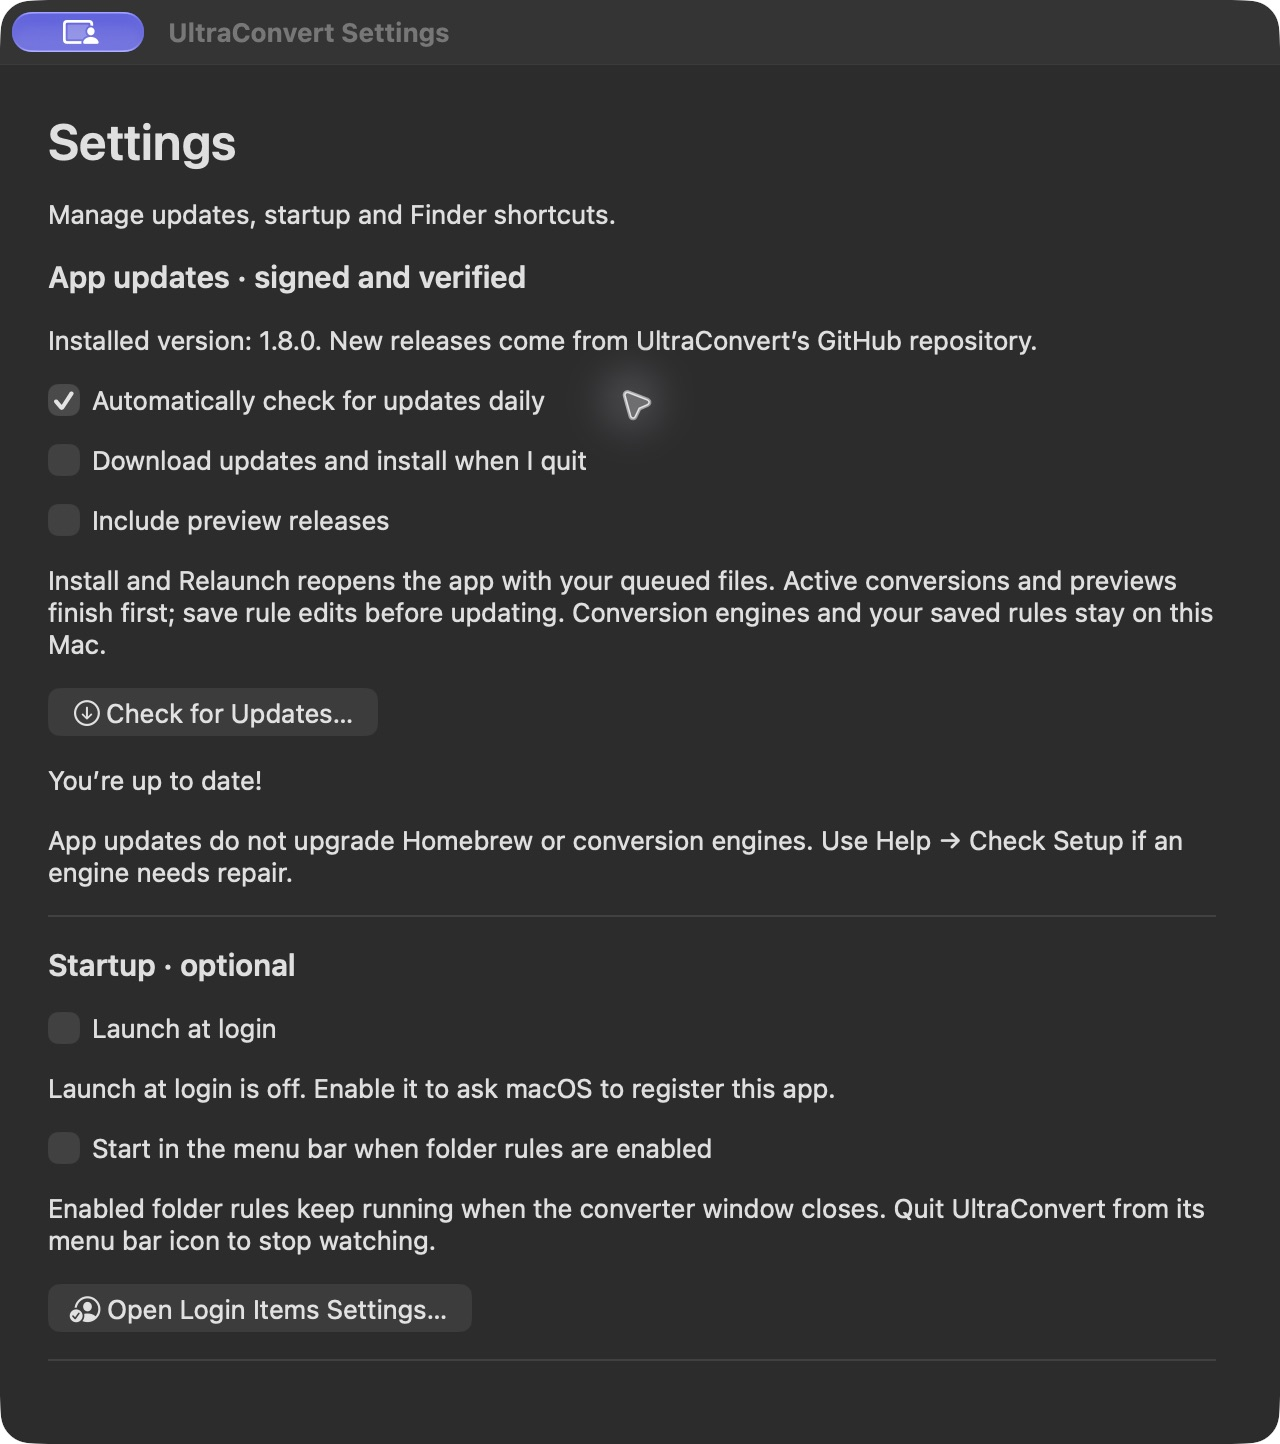
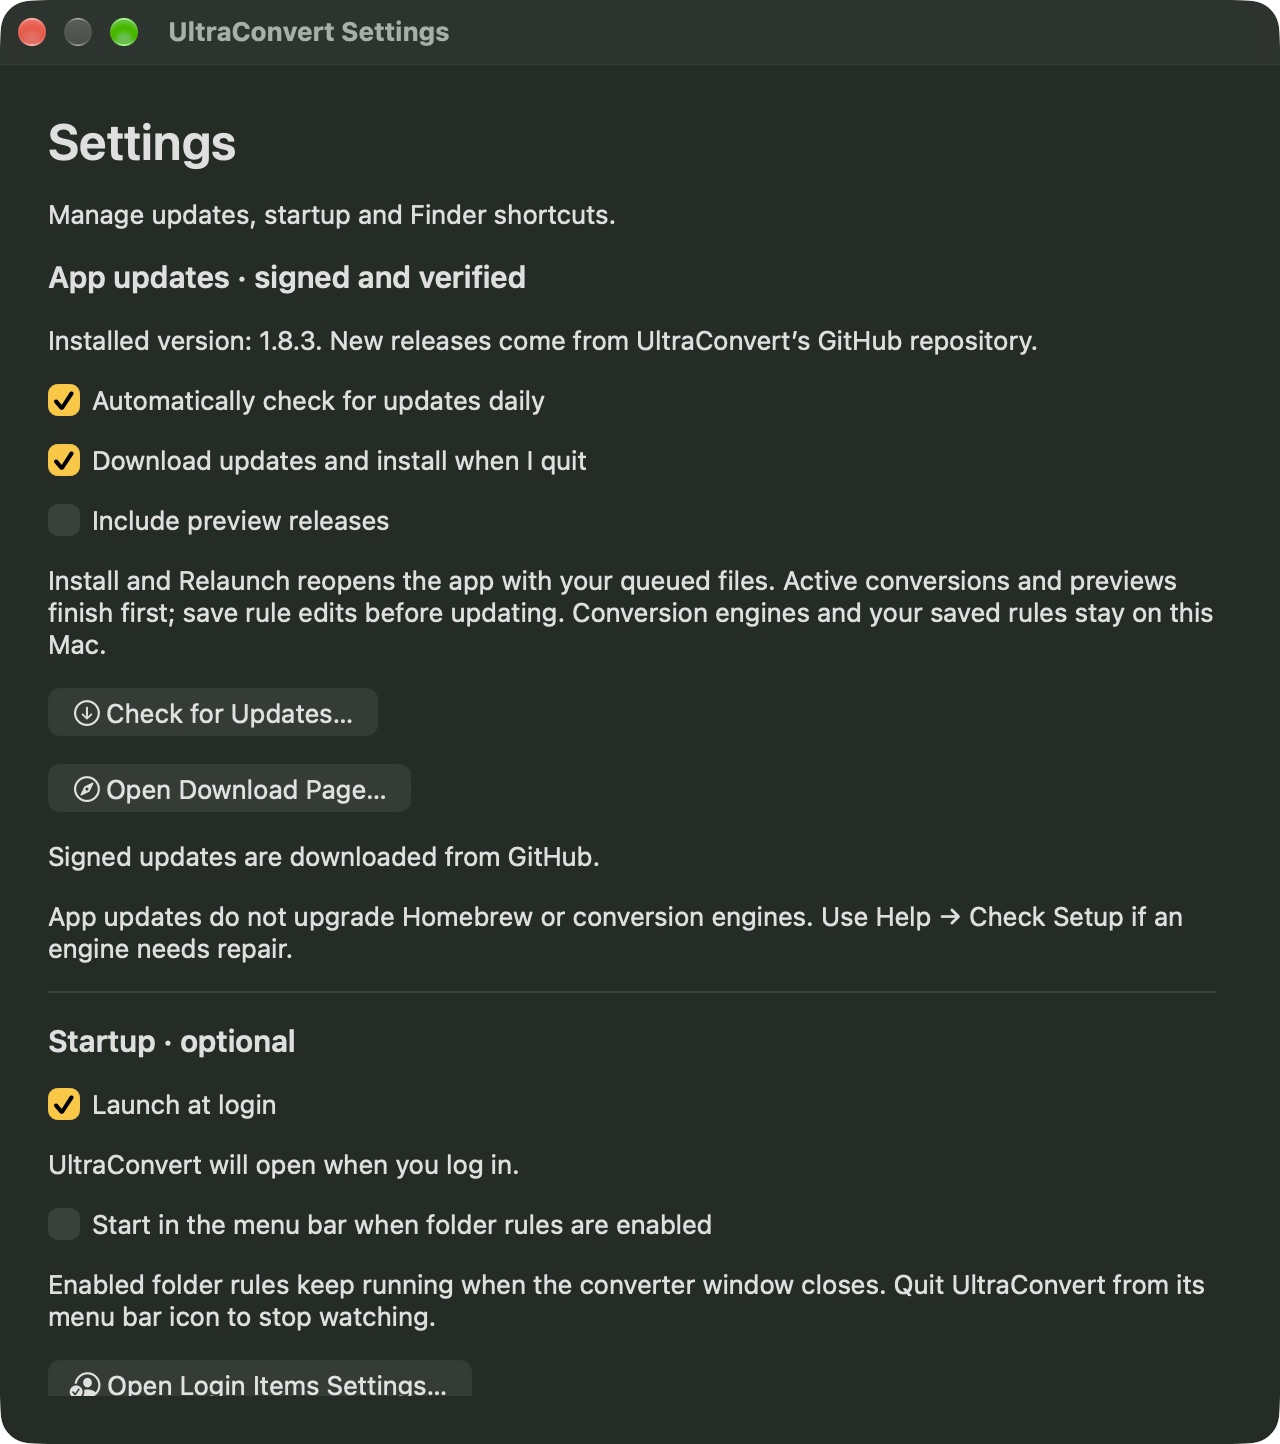
Document real GitHub updates and verified Homebrew adoption

diff --git a/README.md b/README.md
@@ -165,7 +165,19 @@ Reopen **Getting Started…** for the offline guide. [Full usage and troubleshoo
 
 ## Update or remove
 
-**From version 1.8 onward:** choose **UltraConvert → Check for Updates…** (also in **Settings**, ⌘,). Read the update notes, click **Install Update**, then **Install and Relaunch**. The app downloads from GitHub, checks the signed feed and archive before extraction, installs the app and reopens your queued files. Your preferences, saved rules and conversion engines are retained. Active conversions and previews finish first; save or discard any rule edits before updating.
+**From version 1.8 onward, update inside the app:**
+
+1. Choose **UltraConvert → Check for Updates…**, or open **Settings** (⌘,) and click **Check for Updates…**.
+2. Read the release notes and click **Install Update**. Keep the app open while the download is verified and prepared.
+3. Click **Install and Relaunch**. UltraConvert installs the update and reopens with your queued files, selected formats and destination.
+
+Your preferences, saved folder rules and conversion engines are retained. Active conversions and previews finish first; save or discard any rule edits before updating. If you already have the newest version, the app says **You’re up to date!**.
+
+![A real GitHub update offer with release notes and the Install Update button](docs/images/update-available.png)
+
+![The downloaded update ready for Install and Relaunch](docs/images/update-ready.png)
+
+These screenshots show real update tests; version numbers change with each release. [Download preparation](docs/images/update-progress.png) · [Restored file queue after relaunch](docs/images/update-restored-queue.png).
 
 ![App update settings with daily checks and optional background downloads](docs/images/app-updates.png)
 
@@ -174,6 +186,8 @@ Reopen **Getting Started…** for the offline guide. [Full usage and troubleshoo
 - **Automatically check for updates daily** is on by default. Checks run while UltraConvert is open; no separate background monitor is installed.
 - **Download updates and install when I quit** is optional and off by default. It downloads verified updates in the background and installs on a normal quit. You can still use Check for Updates to install and relaunch sooner.
 - **Include preview releases** is optional and off by default for this full release. Stable releases remain available in either setting.
+
+The Settings screenshot shows an example with background downloads and Launch at Login enabled; these options are your choice.
 
 **Coming from 1.7 or earlier, repairing engines, or updating manually:** quit UltraConvert, extract the full installer ZIP (or copy its folder out of the DMG), and run `python3 install.py` from that folder once. Future app updates are available in the menu. Source installs can use `git pull --ff-only` followed by `python3 install.py --build-from-source`. The manual installer backs up old components and rolls back failed component swaps.
 
@@ -185,7 +199,9 @@ If an update fails, the existing app remains installed. Try Check for Updates ag
 
 ## Development and verification
 
-[Contributing](CONTRIBUTING.md) · [Security](SECURITY.md) · [UX audits](docs/UX-AUDIT.md) · [Release/signing](docs/MACOS-RELEASE.md) · [Source research](research/REVIEW.md) · [Homebrew verification](evidence/homebrew-verification.json).
+[Contributing](CONTRIBUTING.md) · [Security](SECURITY.md) · [UX audits](docs/UX-AUDIT.md) · [Release/signing](docs/MACOS-RELEASE.md) · [Source research](research/REVIEW.md) · [Homebrew verification](evidence/homebrew-verification.json) · [Real GitHub update verification](evidence/github-update-verification.json).
+
+On an Apple Silicon Mac running macOS 27, real production GitHub updates **1.8.0 → 1.8.2 → 1.8.3** downloaded, installed and relaunched successfully. Both retained the queued file, MP3 choice, destination, all 11 persistent preferences and the saved folder rule unchanged. A conversion after the first update passed and kept its original. Local Homebrew runtime installation, conversion tests, app adoption and data preservation also passed; fresh hosted Homebrew installation/removal tests and the automatic release pipeline passed.
 
 CI checks native compilation, format round trips, edge cases, malicious input, installer rollback and static/dependency security. Matching version tags automatically create the signed and notarized release, verify public downloads, update the Homebrew tap and run its installation tests before publishing the signed update feed. Signing runs on the maintainer’s Mac, which must be awake with its Keychain accessible; public pull requests use separate hosted runners. Signing and notarization establish artifact status, not functional perfection. Original code/artwork are MIT licensed; upstream snapshots retain their licences.
 

diff --git a/CHANGELOG.md b/CHANGELOG.md
@@ -1,5 +1,24 @@
 # Changelog
 
+## 1.8.3 — 2026-10-14
+
+- Homebrew runtime installation uses verified cached wheel downloads without a redundant fetch inside its build sandbox. The app cask checks published GitHub releases for its latest version.
+- Release automation verifies published artifacts, updates the custom tap, waits for its installation tests and publishes the signed appcast last. Safe resumption retains the original release/tag provenance; a missed tap CI event can be dispatched explicitly.
+- Real production updates 1.8.0 → 1.8.2 → 1.8.3 downloaded, installed and relaunched on the maintainer's Mac, preserving queued selections, all 11 persistent preferences and saved-rule bytes. Post-update conversion, native setup and Homebrew adoption passed.
+- Illustrated update instructions and public verification records. Universal Developer ID signed, Apple-notarized app; Intel physical hardware remains untested.
+
+## 1.8.2 — 2026-10-14
+
+- Custom Homebrew tap with a GUI app cask and managed conversion-runtime formula, pinned downloads and source/wheel checksums. Existing manual installations retain their working runtime.
+- Settings provides Open Download Page for manual installation or repair. Read-only version and setup commands support installation checks.
+- Automatic version-tag release pipeline with native/security tests, Developer ID signing, Apple notarization, all release assets, public download verification and Homebrew CI. Signing credentials remain on the maintainer's Mac.
+
+## 1.8.0 — 2026-10-12
+
+- Signed Sparkle updates from GitHub with Check for Updates, download/install/relaunch, daily checks and optional background download/install on quit.
+- Queue, format and destination restoration after relaunch; updates wait for conversion/preview work and unsaved rule edits. Settings and saved folder rules are retained.
+- Modified feed/archive rejection and interrupted-update recovery tests, plus an isolated actual-app update test. Universal signed/notarized public release.
+
 ## 1.7.0 preview — 2026-10-12
 
 - Cohesive 180 ms native transitions for rule navigation, Builder/Activity, guidance, window presentation and batch options. Rapid clicks cancel obsolete scroll transitions; Reduce Motion switches to immediate updates. No idle animation timer.

diff --git a/docs/releases/1.8.3.md b/docs/releases/1.8.3.md
@@ -12,3 +12,7 @@ UltraConvert 1.8.3 is a small maintenance release for real GitHub updates and Ho
 The full installer ZIP/DMG, app-only updater ZIP, source archive, release metadata, signed feed and SHA256 checksums are included. The universal app is Developer ID signed and Apple notarized with its ticket stapled. The DMG is signed and is not separately notarized. Intel compilation is supported; physical Intel testing remains unverified.
 
 The release controller waits for Apple’s notarization ticket before validating the exported app. Homebrew tests validate real JSON → YAML output and apply custom-tap audit rules without the official catalogue’s popularity requirement. Package integrity, repository status and installation checks remain enabled.
+
+**Completed verification:** real production GitHub updates **1.8.0 → 1.8.2 → 1.8.3** downloaded, installed and relaunched on an Apple Silicon Mac. The queued file, selected format/destination, all 11 persistent preferences and saved-rule bytes survived both updates. Post-update conversion kept the original file. Local Homebrew source installation, conversion tests and adoption of the existing app passed; the adopted app remains signed, notarized and accepted by Gatekeeper.
+
+[Illustrated update guide](https://github.com/samuel-zhang01/UltraConvert#update-or-remove) · [Verification record](https://github.com/samuel-zhang01/UltraConvert/blob/main/evidence/github-update-verification.json) · [Automatic release CI](https://github.com/samuel-zhang01/UltraConvert/actions/runs/38542506719) · [Fresh Homebrew CI](https://github.com/samuel-zhang01/homebrew-ultraconvert/actions/runs/38542662062).
